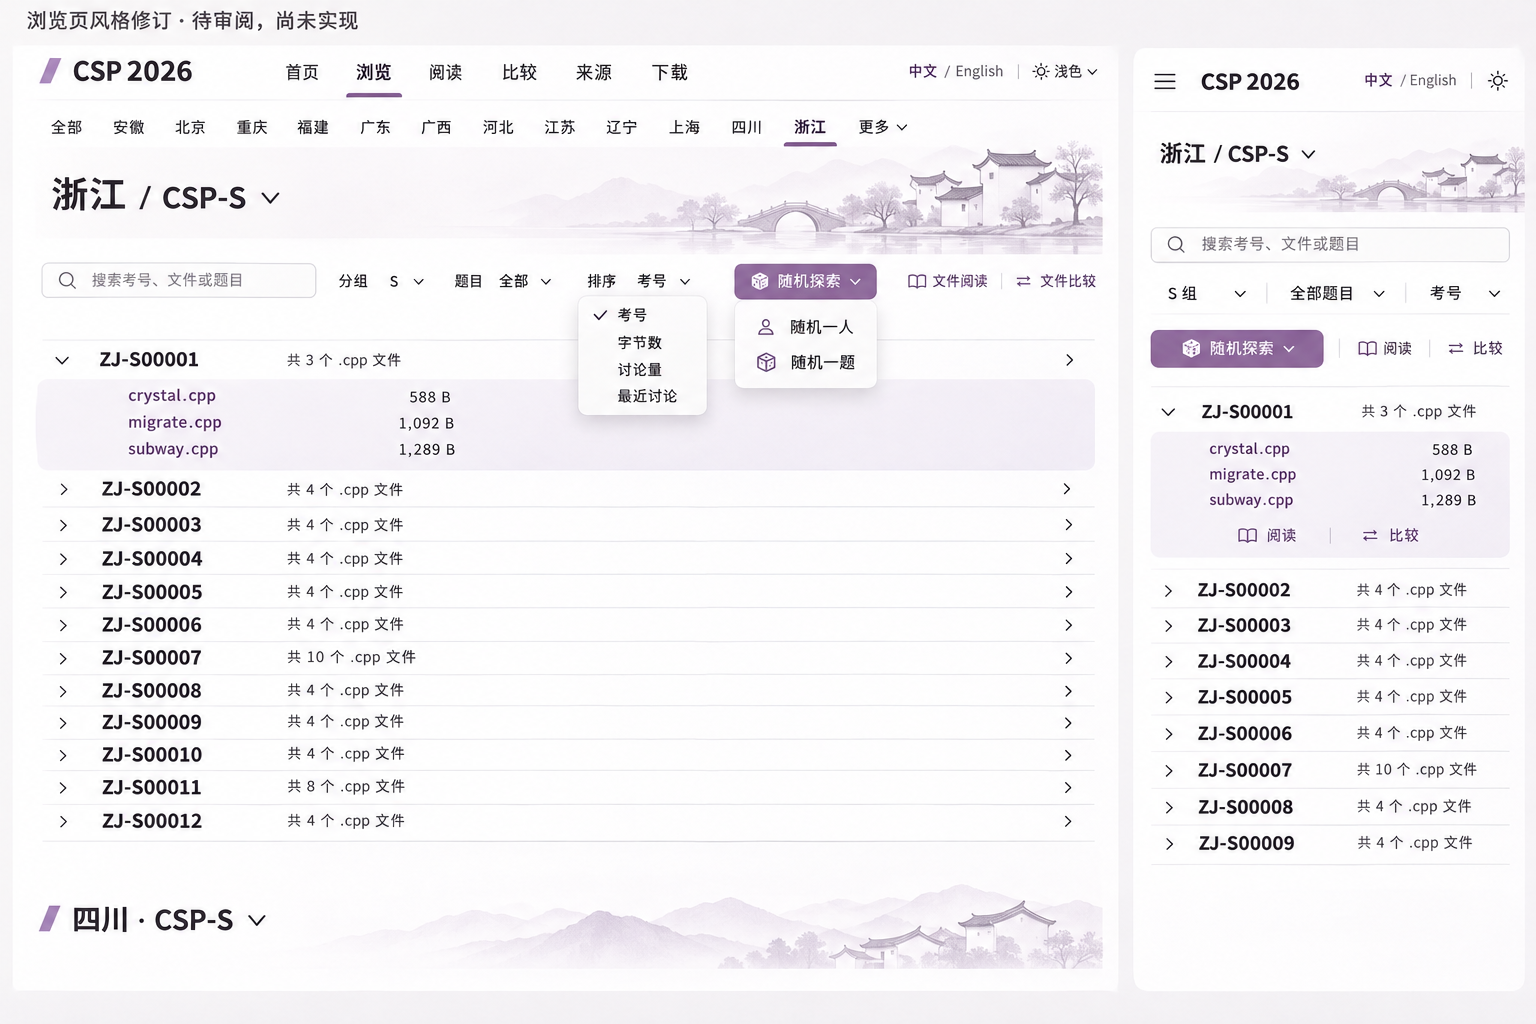
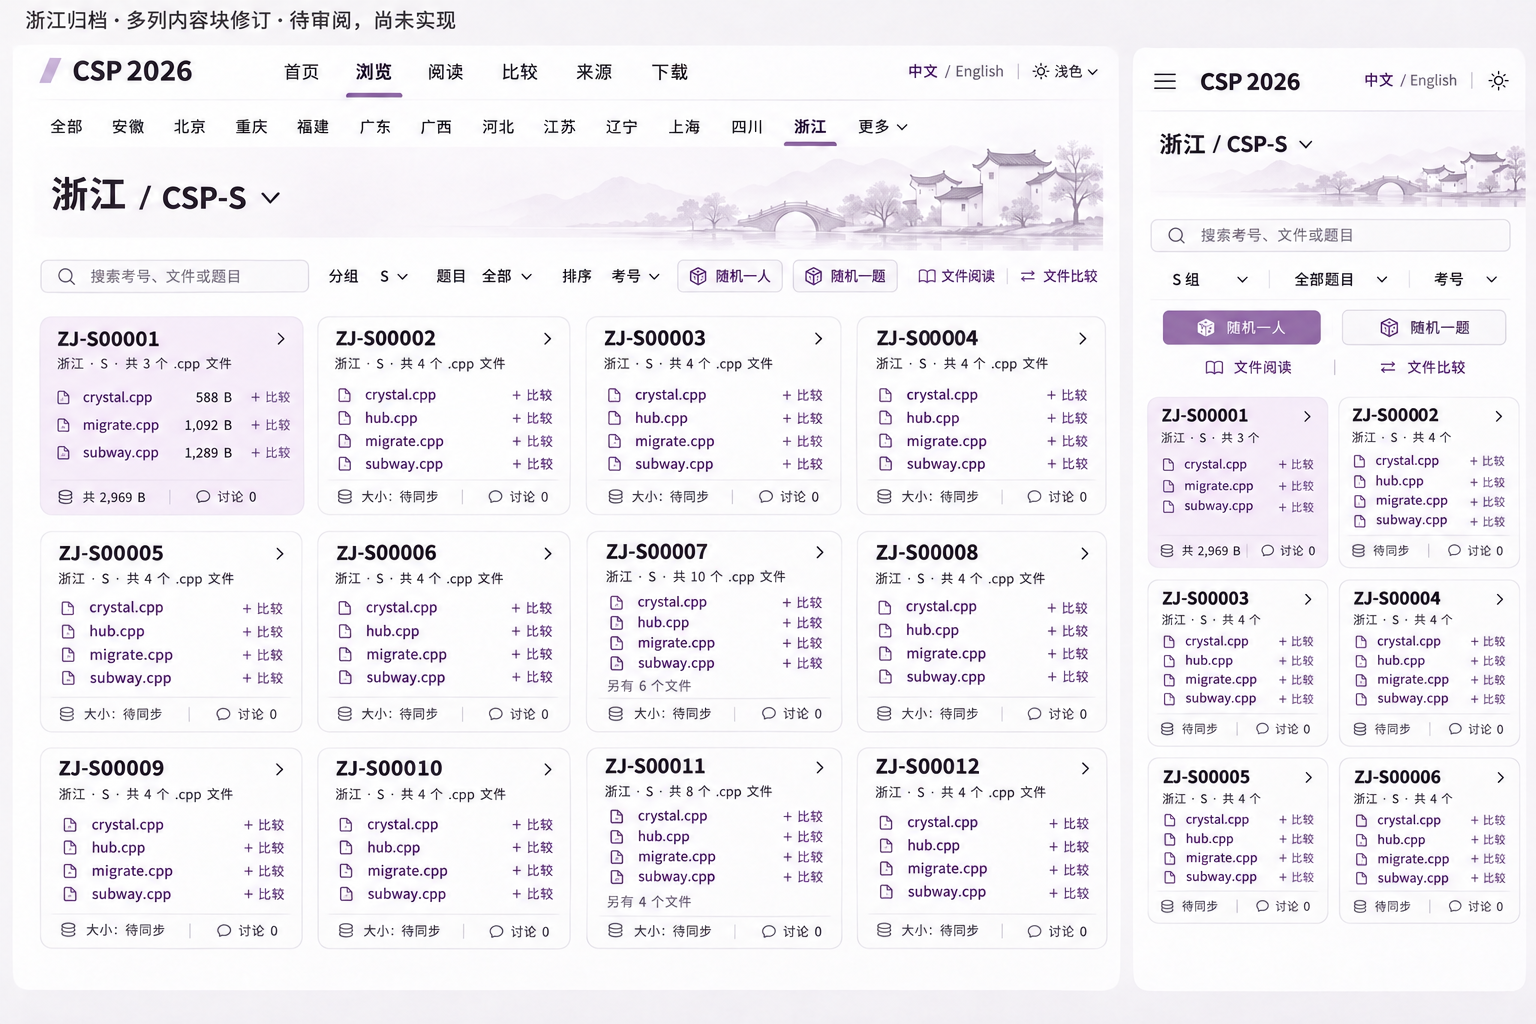
docs: use contestant tiles and enforce selected region scope

diff --git a/docs/design/province-browser-review.md b/docs/design/province-browser-review.md
@@ -16,9 +16,12 @@ These are visual discussion samples, not screenshots of a working feature. The r
 
 The home introduces the national archive with useful entry points, real content previews and imagery representing multiple regions. The catalog is for scanning people/files and moving between region sections. The dedicated reader gives code the main space. Comparison uses a separate wide view. Provenance and downloads have their own full pages, with contextual entry points from a file. These tasks share navigation and state but do not have to fit one universal screen.
 
-The catalog uses readable compact rows, alignment and useful metadata. A wrapping region selector replaces the skinny boxed vertical province list. Region sections can be read continuously with incremental loading, visible headings, keyboard navigation and a load-more fallback. Clicking a person or file opens the appropriate detail view; returning restores filters, selection and scroll position. A quick peek can supplement browsing but must not permanently squeeze the code into a narrow column.
+The maintainer explicitly chooses a multi-column content-block grid, not a full-width list or table. Each contestant is a near-square or rectangular tile, exposing its ID, available problem/file links, file/byte metadata and discussion information. At a normal desktop width show multiple tiles per row (the current sample uses four); use two compact readable columns on mobile where they fit, and reflow at smaller widths rather than shrink the text. Open a problem directly from its tile or enter the contestant context from the ID. Additional/variant files can expand into a wider detail surface; code reading remains a separate spacious page. Returning restores filters, grid position and selection.
 
-Useful density is not tiny type, colored spreadsheet bands, bevelled buttons or a wall of outlined panels. Controls should be flat, hierarchy clear and row contents legible. The reference observations from real sites are specific: GitHub file navigation, the metadata rhythm of Hugging Face datasets, and the proportion of actual code in editor interfaces. Their branding, assets and statistics are not adopted as this project's content. Modernize the catalog by removing redundant per-row reading buttons and duplicated counts, simplifying filters into compact text controls, and using a clear type scale and alignment rather than a framed form-and-table shell.
+The selected region is a real filter. When Zhejiang is selected, the grid contains only Zhejiang contestants and must not append a Sichuan preview, an arbitrary next-region banner, or regional postcard samples. Switching regions uses the top region selector. Only an explicit all-regions view may display multiple actual region sections with bounded incremental loading; it is not a reason to mix a different province into a single-region result. The current review image has no bottom province teaser.
+
+A tile is the current displayed unit, so size sorting uses the defined aggregate stored-byte total of that contestant's included files, not one arbitrary first file. State the included scope, gzip interpretation and unknown-data behavior. Discussion aggregation must identify the included thread/comment/reply measure and deduplicate repeated thread references; associated pair discussions are identified as such. File-level sorting belongs to a file-result/detail mode and must not be silently confused with contestant ordering. The first sample contestant's three verified files sum to 2,969 stored bytes; other uncollected totals remain unknown. Source-like extension counts are not official submission counts.
+Useful density is not tiny type, colored spreadsheet bands, bevelled buttons or a wall of outlined panels. Controls should be flat, hierarchy clear and row contents legible. The reference observations from real sites are specific: GitHub file navigation, the metadata rhythm of Hugging Face datasets, and the proportion of actual code in editor interfaces. Their branding, assets and statistics are not adopted as this project's content. Modernize the catalog with a multi-column contestant grid, direct problem links, compact metadata and no duplicated counts, simplifying filters into compact text controls, and using a clear type scale and alignment rather than a framed form-and-table shell.
 
 ## Default reader: borrow ergonomics, keep the project's design
 
